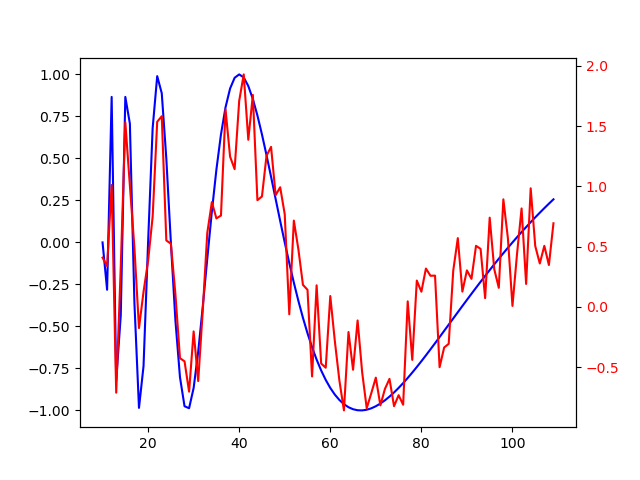
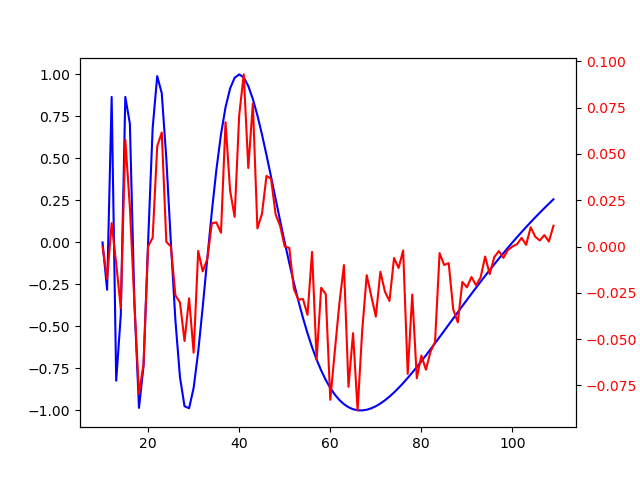
docs

diff --git a/docs/index.html b/docs/index.html
@@ -9,7 +9,7 @@ y:`sin 2*pi*n%2*x:(n%10)+!n:100
 p.p(x;y) /line plot a springy sin wave
 <img src=1.png>
 
-p.p(x;y;y+?n) /plot two waves
+p.p(x;y;y*(?n)%10) /plot two waves
 <img src=2.png>
 
 p.p@+`square`linear`log!(({x*x}@!n)%n;!n;0.25*n*`ln@1+!n) /plot a multi line chart

diff --git a/readme.md b/readme.md
@@ -1,7 +1,7 @@
 ### plotting for ngn/k
 defines a concise interface to generate charts
 
-uses python's matplotlib, but can easily use other drivers keeping the same interface
+uses python's matplotlib, but can define other drivers keeping the same interface
 
 ![fourier transform plot](docs/6.png)
 
